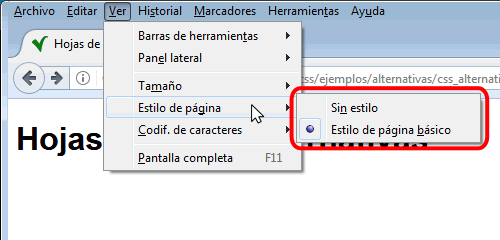
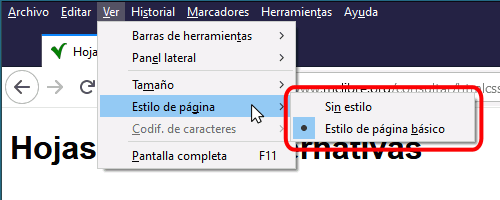
CSS alternativas: actualizo capturas Firefox

diff --git a/css/css-cssalternativas.html b/css/css-cssalternativas.html
@@ -89,7 +89,7 @@
     <section id="uso-en-ff">
       <h3>Hojas de estilo alternativas en Firefox</h3>
 
-      <p>La selección de hojas de estilo se realiza en Firefox mediante el menú <span class="soft-menu">Ver &gt; Estilo de página</span>. Las opciones de este menú dependen de los atributos de las hojas de estilo enlazadas.</p>
+      <p>La selección de hojas de estilo se realiza en Firefox mediante el menú <span class="soft-menu">Ver &gt; Estilo de página</span>. El menú se muestra pulsando la tecla <span class="soft-atajo-teclado">Alt</span>. Las opciones de este menú dependen de los atributos de las hojas de estilo enlazadas.</p>
 
       <ul>
         <li>si la hoja (u hojas) de estilo enlazada tiene el atributo <span class="html-atri">rel=</span><span class="html-atri-valor">"stylesheet"</span>, pero no tiene el atributo <span class="html-atri">title</span>, el menú muestra las opciones: "Sin estilo" y "Estilo de página básico". Si se elige "Sin estilo", Firefox muestra la página sin aplicar la hoja de estilo. Si se quiere volver a aplicar la hoja de estilo, hay que elegir "Estilo de página básico".
@@ -101,7 +101,7 @@
 </pre>
             </div>
             <div class="resultado-captura nogrow">
-              <p><img src="../img/firefox/ff-ver-estilo-1.png" alt="Firefox - Ver &gt; Estilo de página" title="Firefox - Ver &gt; Estilo de página" width="500" height="240"></p>
+              <p><img src="../img/firefox/ff-ver-estilo-1.png" alt="Firefox - Ver &gt; Estilo de página" title="Firefox - Ver &gt; Estilo de página" width="500" height="200"></p>
             </div>
             <div class="icono-enlace">
               <a href="ejemplos/alternativas/css-alternativas-1.html"><img src="../varios/iconos/icono-enlace.svg" alt="Enlace externo" title="Enlace externo" width="31" height="36"></a>
@@ -117,7 +117,7 @@
 </pre>
             </div>
             <div class="resultado-captura nogrow">
-              <p><img src="../img/firefox/ff-ver-estilo-2.png" alt="Firefox - Ver &gt; Estilo de página" title="Firefox - Ver &gt; Estilo de página" width="500" height="240"></p>
+              <p><img src="../img/firefox/ff-ver-estilo-2.png" alt="Firefox - Ver &gt; Estilo de página" title="Firefox - Ver &gt; Estilo de página" width="500" height="200"></p>
             </div>
             <div class="icono-enlace">
               <a href="ejemplos/alternativas/css-alternativas-2.html"><img src="../varios/iconos/icono-enlace.svg" alt="Enlace externo" title="Enlace externo" width="31" height="36"></a>
@@ -135,7 +135,7 @@
 </pre>
             </div>
             <div class="resultado-captura nogrow">
-              <p><img src="../img/firefox/ff-ver-estilo-3.png" alt="Firefox - Ver &gt; Estilo de página" title="Firefox - Ver &gt; Estilo de página" width="500" height="240"></p>
+              <p><img src="../img/firefox/ff-ver-estilo-3.png" alt="Firefox - Ver &gt; Estilo de página" title="Firefox - Ver &gt; Estilo de página" width="500" height="200"></p>
             </div>
             <div class="icono-enlace">
               <a href="ejemplos/alternativas/css-alternativas-3.html"><img src="../varios/iconos/icono-enlace.svg" alt="Enlace externo" title="Enlace externo" width="31" height="36"></a>
@@ -153,7 +153,7 @@
   </section>
 
   <footer>
-    <p class="ultmod">Última modificación de esta página: 17 de junio de 2020</p>
+    <p class="ultmod">Última modificación de esta página: 19 de junio de 2020</p>
 
     <p class="licencia">
       <a rel="license" href="https://creativecommons.org/licenses/by-sa/4.0/deed.es_ES"><img src="../varios/iconos/icono-cc-by-sa.svg" alt="Licencia Creative Commons" title="Licencia Creative Commons BY-SA" width="120" height="42"></a><br>

diff --git a/index.html b/index.html
@@ -231,7 +231,7 @@
   </div>
 
   <footer>
-    <p class="ultmod">Última modificación de alguna página de este curso: 18 de junio de 2020</p>
+    <p class="ultmod">Última modificación de alguna página de este curso: 19 de junio de 2020</p>
 
     <p class="licencia">
       <a rel="license" href="https://creativecommons.org/licenses/by-sa/4.0/deed.es_ES"><img src="varios/iconos/icono-cc-by-sa.svg" alt="Licencia Creative Commons" title="Licencia Creative Commons BY-SA" width="120" height="42"></a><br>
